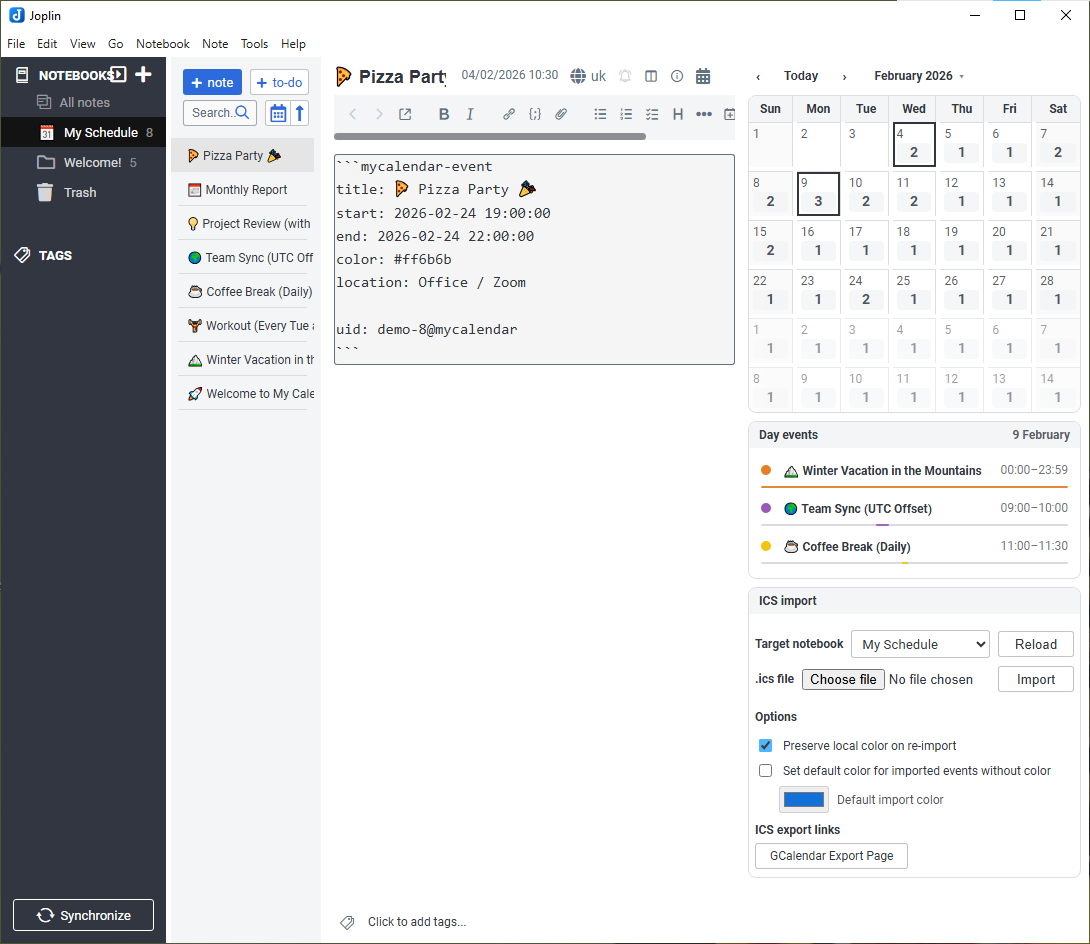
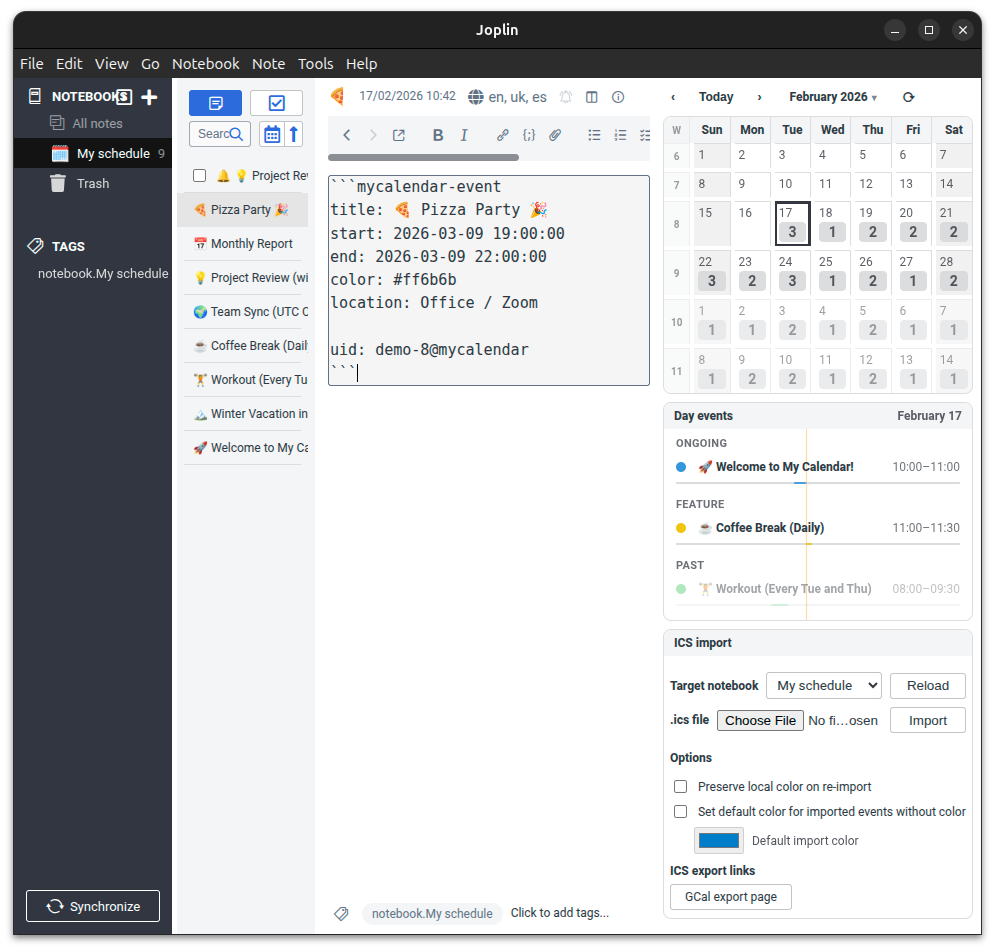
docs: update README and screenshots with recent feature details
- Add documentation for Quick Recovery and Grouped Mode in Day View.
- Highlight improved ICS format compatibility.
- Update screenshots for light/dark themes and settings.
- Update demo_import.ics example.

Changed region(s): [[0.0, 0.0, 1.0, 1.0], [0.7477, 0.3379, 0.8412, 0.4301]]

diff --git a/README.md b/README.md
@@ -20,9 +20,11 @@ note-taking app.
 - **Integrated Monthly Calendar**:
     - **Visual Grid**: View your schedule with event bars and alarm indicators.
     - **Navigation**: Quick jump to any date via the month/year picker.
+  - **Quick Recovery**: Use `⟳` in the toolbar to clear cached events and instantly refresh the month.
     - **Customization**: Toggle week numbers and choose Monday or Sunday start.
 - **Smart Day View**:
     - **Detailed Timeline**: See a chronological list of the day's events with a current time indicator.
+  - **Grouped Mode**: Optional grouping into **Ongoing / Feature / Past** with dynamic reclassification.
     - **Interactive**: Click events to open the corresponding note.
 - **Notes as Events**:
     - **Simple Syntax**: Turn any note into an event by adding a metadata block.
@@ -107,6 +109,8 @@ The plugin features a robust import system designed for performance and reliabil
   These todos
   appear in your standard Joplin tasks and trigger native notifications. The sync process is smart: it only deletes
   outdated alarms and creates new ones, minimizing sync traffic.
+- **Improved Format Compatibility**: Handles folded ICS lines, multiline descriptions, and escaped values more
+  reliably.
 
 ---
 
